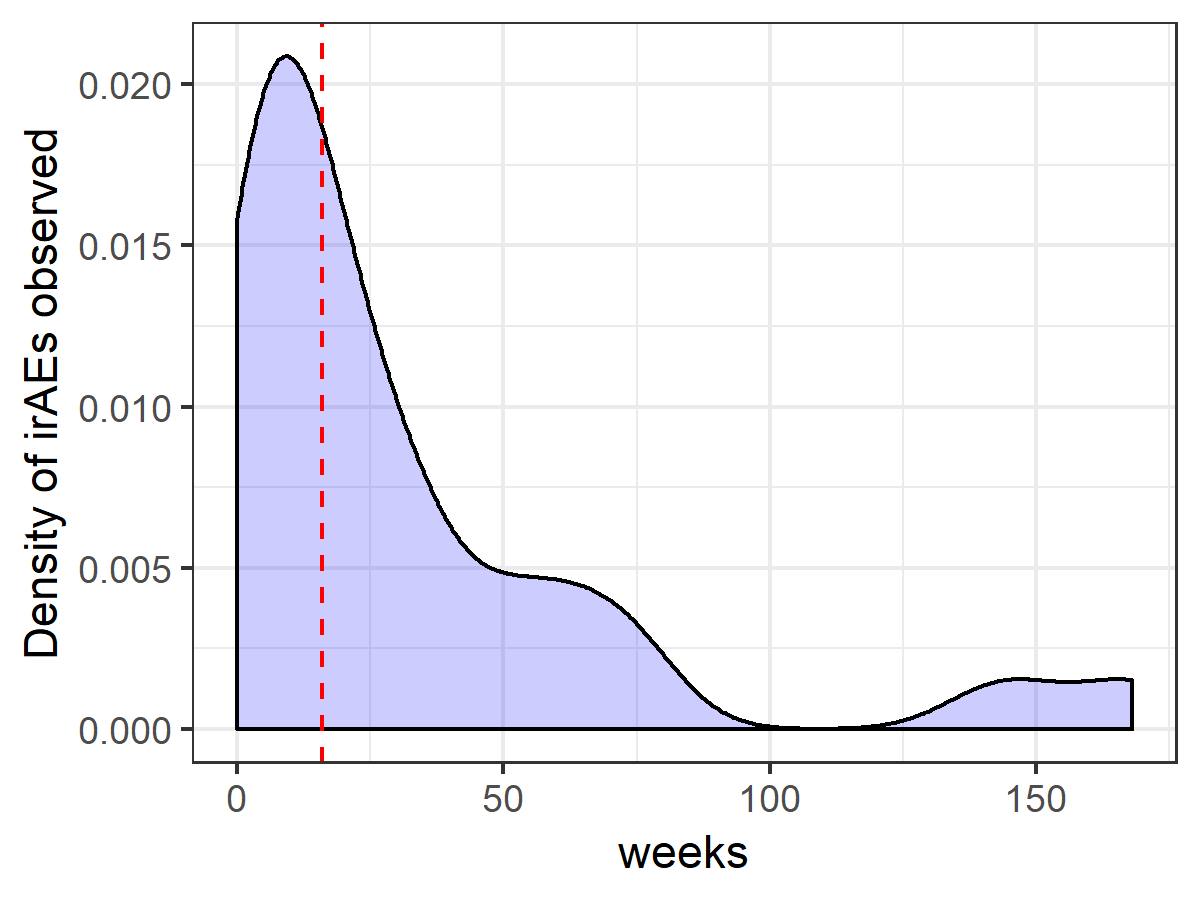
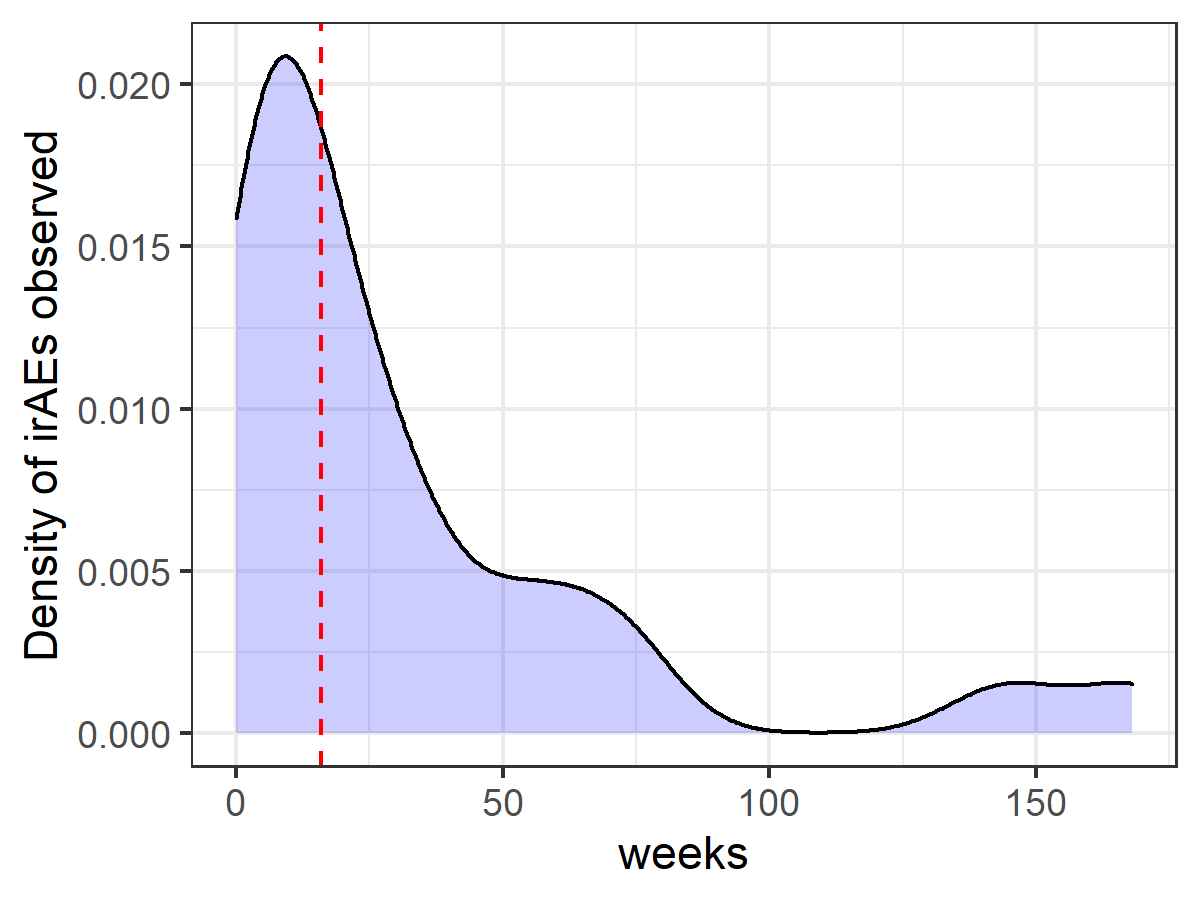
update figs

diff --git a/scripts/estimate-study-end.html b/scripts/estimate-study-end.html
@@ -407,6 +407,27 @@ head(xm)</code></pre>
 <pre><code>## `geom_smooth()` using method = &#39;loess&#39; and formula &#39;y ~ x&#39;</code></pre>
[1 lines of base64/hex data omitted]
 </div>
+<div id="number-of-patients-per-month" class="section level1">
+<h1>Number of patients per month</h1>
+<pre class="r"><code>max(x$`Consent Date`) - min(x$`Consent Date`)</code></pre>
+<pre><code>## Time difference of 536 days</code></pre>
+<pre class="r"><code>monnb &lt;- function(d) { lt &lt;- as.POSIXlt(as.Date(d, origin=&quot;1900-01-01&quot;))
+                          lt$year*12 + lt$mon } 
+
+# compute a month difference as a difference between two monnb&#39;s
+mondf &lt;- function(d1, d2) { monnb(d2) - monnb(d1) }
+# take it for a spin
+
+months.of.enrollment &lt;- mondf(min(x$`Consent Date`), max(x$`Consent Date`))
+
+months.of.enrollment</code></pre>
+<pre><code>## [1] 17</code></pre>
+<p>We have been enrolling pts for 17 months.</p>
+<pre class="r"><code>enrolled.per.mo &lt;- nrow(x) / months.of.enrollment
+enrolled.per.mo</code></pre>
+<pre><code>## [1] 3.705882</code></pre>
+<p>That’s an average of 3.7058824 per month.</p>
+</div>
 <div id="local-polynomial-model" class="section level1">
 <h1>Local Polynomial Model</h1>
 <pre class="r"><code>xm.lo &lt;- loess(formula = n.consented ~ as.numeric(date),
